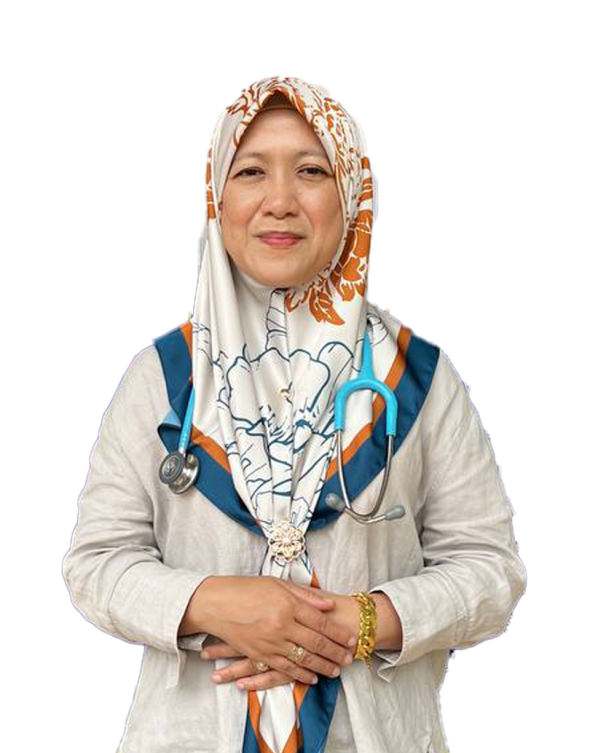
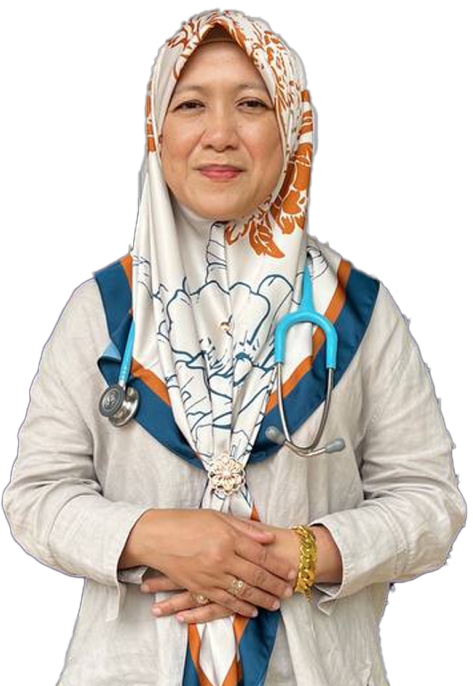
Update front cover

diff --git a/app/component/hero/Hero2.tsx b/app/component/hero/Hero2.tsx
@@ -1,0 +1,64 @@
+import React from "react";
+import Image from "next/image";
+import Doctor from "/public/Doctor.png";
+import Background from "/public/background.svg";
+import Line from "/public/Line.svg";
+
+import { AiOutlineWhatsApp } from "react-icons/ai";
+
+function Hero2() {
+  return (
+    <main>
+      <div className="relative overflow-hidden">
+        <div className=" relative mx-auto  h-[520px]">
+          <div>
+            <Image
+              src={Background}
+              alt=""
+              layout="fill"
+              objectFit="cover"
+            ></Image>
+            <div className="">
+              <Image
+                src={Doctor}
+                alt=""
+                className="absolute bottom-0 -right-10 h-[350px] w-auto"
+                // layout="fill"
+                // objectFit="cover"
+              ></Image>
+            </div>
+          </div>
+          <div className="relative p-10 ">
+            <h1 className="text-6xl  font-bold text-white ">
+              KLINIK <span className="text-yellow-400">HANITA</span>
+            </h1>
+            <p className="text-white text-xs w-3/5 py-3">
+              To provide patient-centered healthcare with excellence in quality,
+              service and access.
+            </p>
+            <Image src={Line} alt="" />
+            <h3 className="text-white py-2 uppercase">Business Hours:</h3>
+            <ul className="text-white text-xxs  w-2/5">
+              <li>MONDAY - FRIDAY (9AM - 10PM)</li>
+              <li>SATURDAY (9AM - 9PM)</li>
+              <li>SUNDAY (10AM -9PM)</li>
+              <li>PUBLIC HOLIDAY (10AM - 9PM)</li>
+            </ul>
+            <a href="https://wa.me/60192484931?text=Hello+I'm+looking+for+a+doctor.+please+send+help!!!">
+              <div className="flex border-2   border-white rounded-full bg-green-600  my-5 items-center gap-2 px-3 py-1 w-fit   ">
+                <div className="text-white text-base lg:text-3xl ">
+                  <AiOutlineWhatsApp />
+                </div>
+                <h2 className="text-white text-xxs  font-bold lg:text-lg  ">
+                  CONTACT US
+                </h2>
+              </div>
+            </a>
+          </div>
+        </div>
+      </div>
+    </main>
+  );
+}
+
+export default Hero2;

diff --git a/app/page.tsx b/app/page.tsx
@@ -13,6 +13,7 @@ import { BsFacebook } from "react-icons/bs";
 
 import Services from "./component/services/Services";
 import MapLocation from "./component/mapLocation/MapLocation";
+import Hero2 from "./component/hero/Hero2";
 
 const inter = Inter({
   subsets: ["latin"],
@@ -31,13 +32,13 @@ export default function Home() {
 
       {/* ----------------------Navbar Section--------------------------------------- */}
 
-      <div className="sticky top-0 z-10">
+      <div className="sticky top-0 z-10 drop-shadow-lg">
         <Navbar1 />
       </div>
 
       {/* ----------------------Hero Section--------------------------------------- */}
 
-      <Hero1 />
+      <Hero2 />
 
       {/* ----------------------Promotion Section--------------------------------------- */}
 
